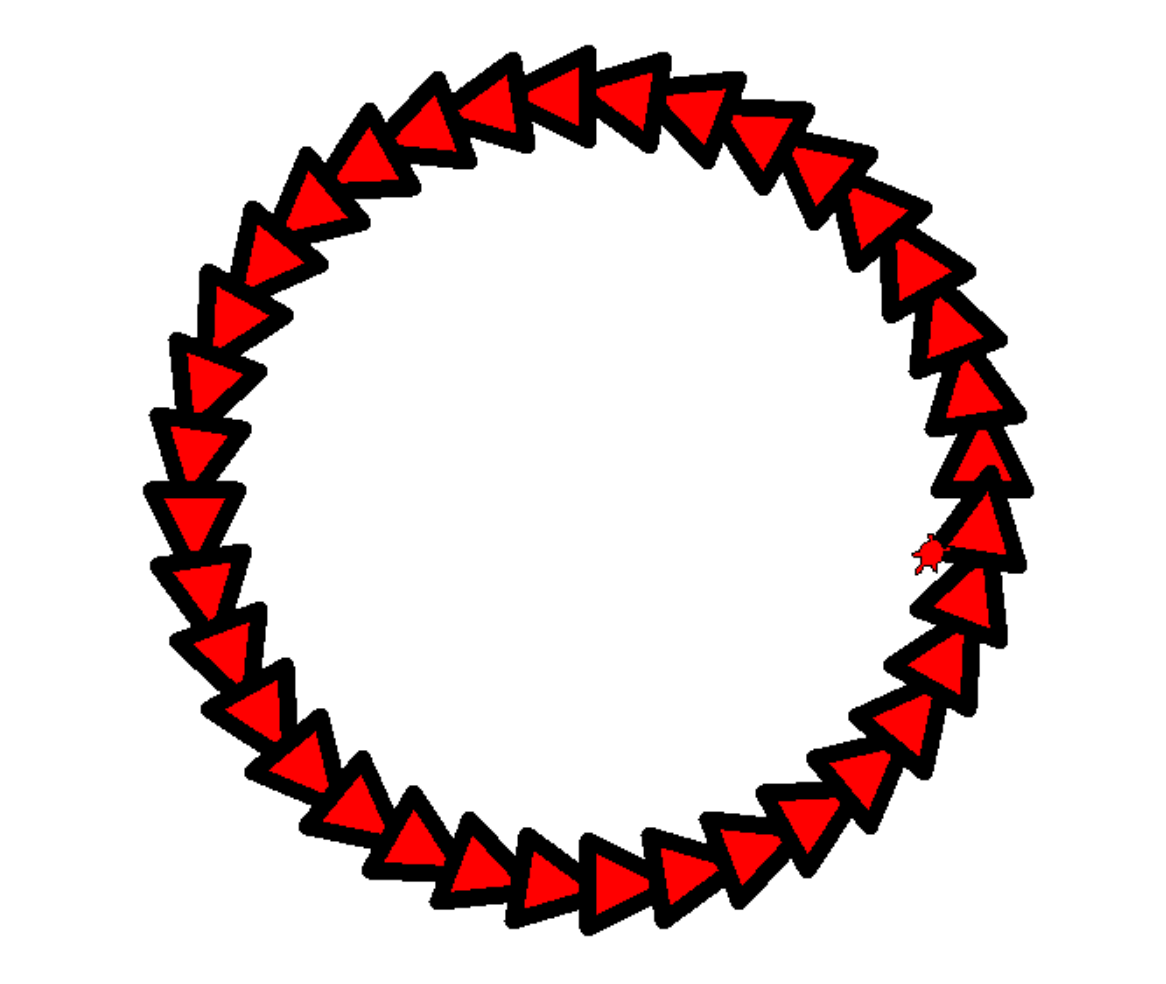
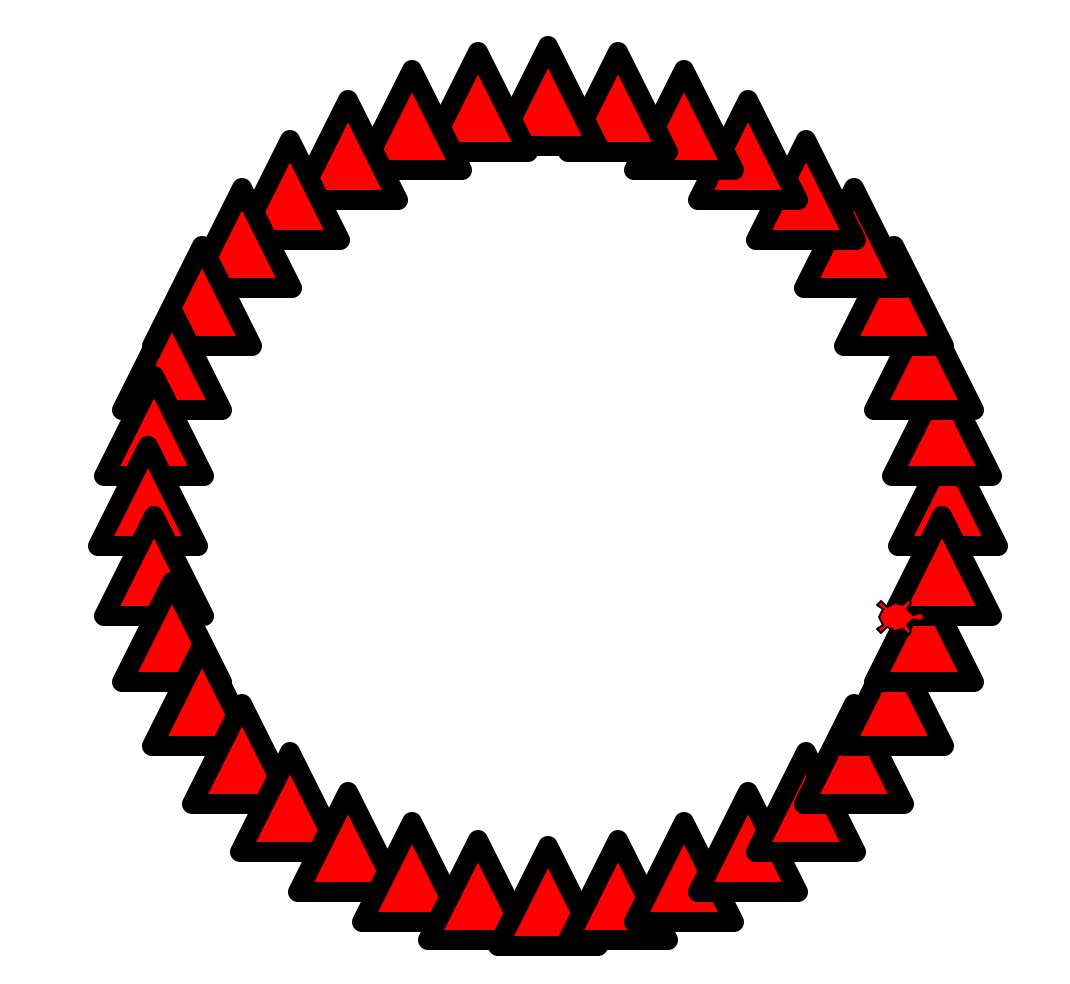
project01 updates

Changed region(s): [[0.0617, 0.0305, 0.9561, 0.9756]]

diff --git a/_lab/project01.md b/_lab/project01.md
@@ -5,10 +5,9 @@ ready: false
 desc: "Turtle Graphics: Scene from a forest"
 assigned: 2017-10-20 11:00:00.00-7
 due: 2017-11-09 20:00:00.00-8
-submit_cs_pnum: 774
+submit_cs_pnum: 856
 ---
 
-# To do : rewrite section on "Take a detour into random numbers" not to use tilt angles for drawTriangle, set up submit.cs
 
 Goal
 ====
@@ -109,7 +108,7 @@ We could have also used the statement <code>import basicShapes</code> to import 
 
 ## Step 4: Draw a tree
 
-Using only the two functions available in `basicShapes.py`, we will create the essential elements of our forest scene in code: functions to draw a tree and a hut. Once we do that, drawing the forest boils down to making repeated calls to these two functions and moving the turtle to a new spot in between function calls. We'll start with writing a function to draw a tree. 
+Using only the two functions available in `basicShapes.py`, we will create the essential elements of our forest scene in code: a function to draw a tree and another to draw a hut. Once we do that, drawing the forest boils down to making repeated calls to these two functions and moving the turtle to a new spot in between function calls. We'll start with writing a function to draw a tree. 
 
 
 ### Write the stub function and test code
@@ -173,10 +172,10 @@ def drawForest():
     '''
 ```
 
-Getting to a solution is an iterative process. Attempt a simpler version of the `drawForest()` function that would help you progress towards a final solution. Its up to you to define 'a simpler version of the forest'. I might start by making a forest that comprises of just three trees of the same height placed in a row with equal spacing between the trees. For now, follow along because this simpler solution is a good segway to learning a very important programming concept: loops
+Getting to a solution is an iterative process. Attempt a simpler version of the `drawForest()` function that would help you progress towards a final solution. Its up to you to define 'a simpler version of the forest'. I might start by making a forest that comprises of just three trees of the same height placed in a row with equal spacing between them. For now, follow along because this simpler solution is a good segway to learning a very important programming concept: loops
 
 
-One way of drawing a row of trees that are equidistant from each other is to repeat a block of code that moves the turtle to a specific spot and then calls the `drawTree()` function. This is shown below:
+One way of drawing a row of trees that are equally spaced from each other is to repeat a block of code that moves the turtle to a specific spot and then calls the `drawTree()` function. Recall that we did a similar thing with rectangles in lecture. This is shown below:
 
 ```
 # Move the turtle to location (-200, -100) and draw a tree  
@@ -225,9 +224,9 @@ Start by writing a simple for loop to draw triangles along a circle. This code d
 
 ```
 
-def randomPlay():
+def regularPlay():
     '''
-    Experiments with the random module
+    A circle of triangles
     '''
     t.pensize(10)
     for i in range(36):
@@ -237,21 +236,17 @@ def randomPlay():
         y = radius*math.sin(i*10*math.pi/180)
         t.goto(x,y)
         t.down()
-        tilt = 10*i
-        drawTriangle(50, 50, tilt, "black", "red")
+        drawTriangle(50, 50, "black", "red")
 
-randomPlay()
+regularPlay()
 ```
 
-When you run the above code, you will find a very regular arrangement of triangles along a circle as shown below. Read the code to understand why its producing this output. Note that both the location and tilt of each triangle is dependent on the value of our loop variable (i). 
+When you run the above code, you should find a very regular arrangement of triangles along a circle as shown below. Read the code to understand why its producing this output. Note that the location of each triangle is dependent on the value of our loop variable `i`. 
 
 ![circleOfTris](circleOfTris.png){:height="200px"}
 
-We will now introduce the use of random numbers into this code by selecting the tilt of each triangle to be a random number between 0 and 90 degrees. To do this replace the line `tilt = 10*i` by `tilt = random.randint(0, 90)`. Then run the code. You should see a drawing similar to the one below, although not exactly the same!
 
-![randTilt](randTilt.png){:height="200px"}
-
-We will next use the random module to randomize two other aspects of our drawing: the location of each triangle and its color. Previously, we drew all our triangles along a circle of radius 200. This time we will introduce a small random perturbation in that value by adding a random number between -50 and 50 to the radius in every iteration of the for loop. The line of code that does that is:
+We will next use the random module to randomize two aspects of our drawing: the location of each triangle and its color. Previously, we drew all our triangles along a circle of radius 200. This time we will introduce a small random perturbation in that value by adding a random number between -50 and 50 to the radius in every iteration of the for loop. The line of code that does that is:
 
 ```
  radius = 200 + random.randint(-50, 50)
@@ -261,11 +256,11 @@ We will next use the random module to randomize two other aspects of our drawing
 The second modification we will make is to select the color of each triangle at random from a list of colors. The following two lines of code defines our color choices and then selects one color from this list at random.
 
 ```
-shadesOfGreen =["#006400", "#556b2f", "#8fbc8f", "#2e8b57", "#3cb371", "#20b2aa", "#32cd32"] 
-color = random.choice(shadesOfGreen)
+shadesOfGreen =["#006400", "#556b2f", "#8fbc8f", "#2e8b57", "#3cb371", "#20b2aa", "#32cd32"] # A list of color codes for different shades of green
+color = random.choice(shadesOfGreen) # select one of the elements of the list at random
 ```
 
-The list `shadesOfGreen` defines a list of color codes for different shades of green. The next line selects one of the elements of this list at random. The following code incorporates these new elements.
+Now copy the following function into your file, read it and then run it
 
 ```
 def randomPlay():
@@ -282,15 +277,14 @@ def randomPlay():
         y = radius*math.sin(i*10*math.pi/180)
         t.goto(x,y)
         t.down()
-        tilt = 0
         color = random.choice(shadesOfGreen)
-        drawTriangle(50, 50, tilt, "black", color)
+        drawTriangle(50, 50, "black", color)
 ``` 
-The output of the code is shown in the figure below. Try changing the limits to the random.randint() function and rerun the code, and observe the outcome. Notice how you can control the level of randomness in your drawings using this simple strategy.
+The output of the code is shown in the figure below. Try changing the limits to the random.randint() function and re-run the code, and observe the outcome. Notice how you can control the level of randomness in your drawings using this simple strategy.
 
 ![randLoc](randLoc.png){:height="200px"}
 
-Apply what you have learned in this section to complete your `drawForest()` function. Your forest should contain anywhere between 10 and 15 trees of different sizes and different shades of green placed randomly along a horizontal line.
+Apply what you have learned in this section to complete your `drawForest()` function. Your forest should contain anywhere between 10 and 15 trees of different sizes and different shades of green placed randomly along a narrow horizontal region.
 
 ## Step 7: Draw a hut, then a village
 
@@ -318,18 +312,23 @@ When testing these functions, comment out all calls to previous functions. This 
 Finally, put all the elements that you have implemented to draw the final scene. 
 When you are finished, ask a TA or instructor to look it over and give you some feedback on it.  
 
+## Step 9: Make it your own! 
+
+We have 10 points reserved for you to add new elements to your forest and get creative. Define new functions to your file and call them in the `if __name__=="__main__" block to make te forest scene your own!!
+
+
 It should be structured in a way that there is 
 
 1. A single file called <tt>{{page.num}}.py</tt>
 2. Code at the top of the <tt>{{page.num}}.py</tt> file that sets up a turtle
-3. Next, function defintions for each of the basic shapes, test code for the basic shapes, `drawTree()`, `testdrawTree()`, `drawForest()`, `drawHut()`, and `drawVillage()`
+3. Next, function defintions for each of the basic shapes, test code for the basic shapes, `drawTree()`, `checkTreeHeight()`, `drawForest()`, `drawHut()`, and `drawVillage()` and any other functions that you like to add.
 4. Finally, code that calls those functions to draw the forest scene.  That code should be in a block that starts with `if __name__=="__main__":` as explained later in the lab.
 
 
 If your code meets all those criteria, you should be in good shape to submit it.
 
 
-## Step 9: Submitting via submit.cs
+## Step 10: Submitting via submit.cs
 
 Note that this week, although we are using submit.cs, it is NOT the case that the grade you get from submit.cs is your final grade for the assignment.
 
